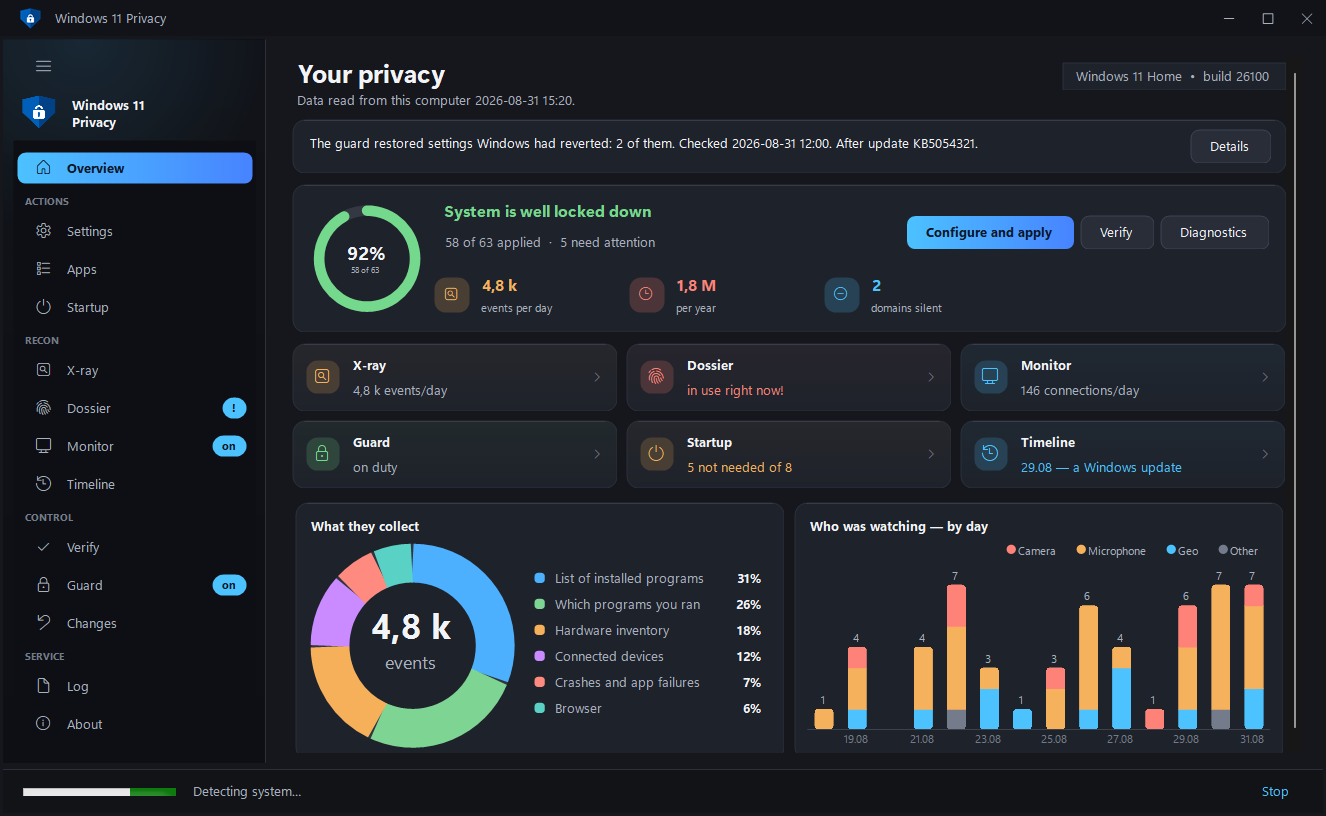
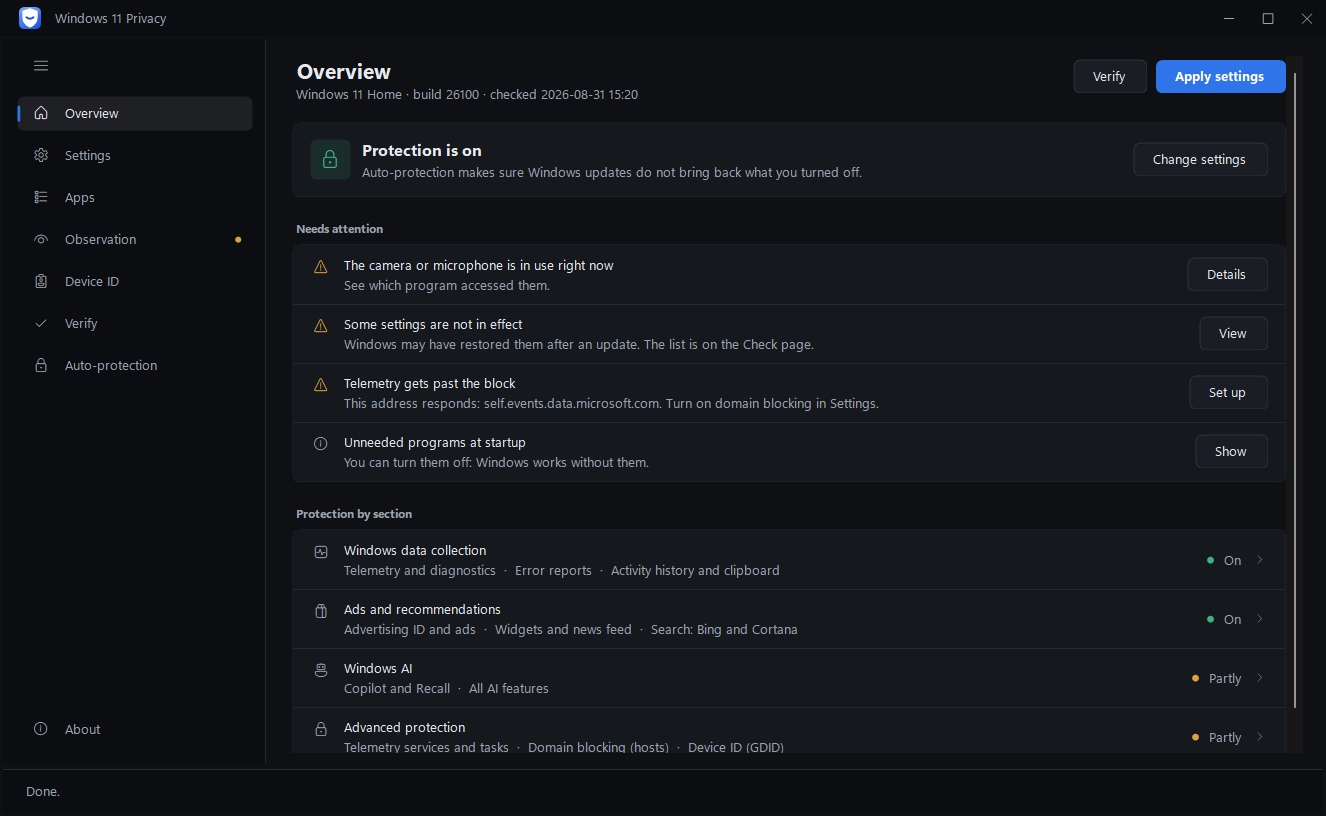
README: new section names and screenshots of the redesigned interface
- Every screenshot in docs/ and docs/en/ retaken from the new interface, plus
  the new Device ID page. Taken with test data only (UITEST + mocks); the new
  WIN11_TEST_README switch puts the test data back and sets the status bar to
  "Done" right before the shot, so the pictures are consistent.
- Feature table and gallery use the new names: Observation (data collection,
  traces on this PC, network, timeline), Verify, Auto-protection; a short line
  under the hero picture lists the eight sections.
- roundtrip.ps1: the services/tasks scenario is skipped, not failed, on a
  Windows without those scheduled tasks (GitHub's server runners); it runs in
  full on Windows 11.

diff --git a/Program.cs b/Program.cs
@@ -64,6 +64,17 @@ namespace Win11Privacy
             Timer t = new Timer(); t.Interval = delayMs;
             t.Tick += delegate {
                 t.Stop();
+                // Снимки для README: настоящий движок за время ожидания успевает
+                // перебить часть тестовых данных своими ответами, а строка
+                // состояния — показать «идёт чтение». Перед снимком всё
+                // возвращается к тестовому состоянию.
+                if (mock && Environment.GetEnvironmentVariable("WIN11_TEST_README") == "1")
+                {
+                    f.InjectMocks();
+                    f.SetBusy(false, L.T("Готово."));
+                    f.Refresh();
+                    Application.DoEvents();
+                }
                 if (shot != null) { try { using (Bitmap bmp = new Bitmap(f.Width, f.Height)) { f.DrawToBitmap(bmp, new Rectangle(0, 0, f.Width, f.Height)); bmp.Save(shot); Console.WriteLine("SHOT " + shot); } } catch (Exception ex) { Console.WriteLine("SHOTERR " + ex.Message); } }
                 // сборке важно не только «окно открылось», но и что на странице что-то есть
                 Console.WriteLine("PAGE " + page + " controls=" + CountControls(f.PageOf(page)));

diff --git a/README.ru.md b/README.ru.md
@@ -19,25 +19,27 @@
 
 <img src="docs/home.png" alt="Обзор">
 
+Восемь разделов: **Обзор**, **Настройки**, **Приложения** (и автозагрузка), **Наблюдение** (сбор данных, следы на компьютере, сеть, хронология), **Номер устройства**, **Проверка** (и журнал изменений), **Автозащита**, **О программе**.
+
 ---
 
 ## Чего нет у других
 
 | | |
 |---|---|
-| **Досье** | Кто и когда включал вашу камеру, микрофон и геолокацию — с длительностью и меткой «сейчас». Плюс цифровой след на диске: рекламный ID, история сетей Wi-Fi и флешек, история буфера обмена — с выборочным стиранием. |
-| **Рентген телеметрии** | Читает настоящие события, которые Windows собрала об этом компьютере, и показывает их сырое содержимое — тот самый JSON, что уходит в Microsoft. |
+| **Следы на компьютере** | Кто и когда включал вашу камеру, микрофон и геолокацию — с длительностью и меткой «сейчас». Плюс цифровой след на диске: рекламный ID, история сетей Wi-Fi и флешек, история буфера обмена — с выборочным стиранием. |
+| **Сбор данных изнутри** | Читает настоящие события, которые Windows собрала об этом компьютере, и показывает их сырое содержимое — тот самый JSON, что уходит в Microsoft. |
 | **Что о вас узнали** | Из этих событий вытаскиваются готовые факты: названия установленных программ, модель и серийные номера железа, подключённые устройства, метки, по которым вас узнают. Не «1420 событий», а что именно из них следует. |
-| **Хронология приватности** | События телеметрии по дням, обновления Windows, правки программы и возвраты стража — на одной оси. Видно, как система отыгрывает настройки назад после очередного обновления. |
+| **Хронология приватности** | События телеметрии по дням, обновления Windows, правки программы и возвраты автозащиты — на одной оси. Видно, как система отыгрывает настройки назад после очередного обновления. |
 | **Проверка на деле** | Читает реальное состояние системы и считает индекс приватности, а не рисует галочки «сделано». |
-| **Страж** | Крупные обновления Windows тихо возвращают часть настроек — страж проверяет систему по расписанию и возвращает сбитое. |
+| **Автозащита** | Крупные обновления Windows тихо возвращают часть настроек — автозащита проверяет систему по расписанию и возвращает сбитое. |
 | **Слежение за датчиками** | Уведомление в тот момент, когда доступ к камере или микрофону впервые получила новая программа. |
-| **Монитор утечек** | Кто и куда реально отправляет данные — по журналу брандмауэра, отдельно разрешённые соединения и отклонённые попытки. |
+| **Наблюдение за сетью** | Кто и куда реально отправляет данные — по журналу брандмауэра, отдельно разрешённые соединения и отклонённые попытки. |
 | **Машина времени** | Снимки состояния настроек и сравнение: что и когда сбилось. |
 | **Отзыв доступа на месте** | Увидели, что программа включала камеру, — и запрещаете ей доступ кнопкой в той же строке. |
 | **Удаление предустановленного** | Список приложений, которые Windows ставит без спроса, с пометкой «можно убрать». Системные компоненты в перечень не попадают. |
-| **Запрет выхода в сеть** | Монитор показывает, кто и куда отправляет данные, — и кнопкой в той же строке программе закрывается выход в интернет. Правило создаётся в брандмауэре Windows и снимается тем же нажатием. |
-| **Автозапуск под контролем** | Что стартует вместе с Windows — с ответом «зачем это здесь»: обновлятор, агент телеметрии, помощник производителя. Гасится обратимо, тем же способом, что и в диспетчере задач, и попадает в общий откат. |
+| **Запрет выхода в сеть** | Вкладка «Сеть» показывает, кто и куда отправляет данные, — и кнопкой в той же строке программе закрывается выход в интернет. Правило создаётся в брандмауэре Windows и снимается тем же нажатием. |
+| **Автозагрузка под контролем** | Что стартует вместе с Windows — с ответом «зачем это здесь»: обновлятор, агент телеметрии, помощник производителя. Гасится обратимо, тем же способом, что и в диспетчере задач, и попадает в общий откат. |
 | **Настройка по пунктам** | Модуль раскрывается в список отдельных настроек: можно применить не всё, а выбранное. |
 | **Блокировка адресов** | Брандмауэр режет сами IP сбора данных — через `hosts` телеметрия уходит в обход. |
 | **Номер устройства, который виден сквозь VPN** | При входе в учётную запись Microsoft выдаёт компьютеру номер (GDID) и узнаёт его по нему при любом IP. У номера своя вкладка с тремя действиями. **Не передавать** отключает службы, которые его сообщают (CDPSvc, CDPUserSvc, DoSvc — последнюю через реестр, потому что Windows не даёт этого даже администратору), и закрывает серверы каталога устройств в `hosts`, включая IPv6; учётная запись Microsoft продолжает работать. **Сменить номер** стирает «личность» устройства вместе с учётными данными — Windows получает новый номер. **Запретить выдачу** ещё и закрывает сервер, который выдаёт номера, — нового не будет; это только для локальной учётной записи, при входе через учётную запись Microsoft программа отказывается. Отключение телеметрии тут не помогает: DiagTrack в этой цепочке не участвует. |
@@ -55,13 +57,13 @@
 | **Фоновые обращения в сеть** | Метаданные устройств, шрифты по требованию, офлайн-карты, модели дисков и речи, Teredo — то, что Windows скачивает и отправляет сама. Пункты взяты из официального списка Microsoft, только безопасные. |
 | **Облачная синхронизация и копия** | Найдено на чистой Windows 11 25H2: система сама выгружает в облако список ваших приложений, сети Wi-Fi, язык, тему, настройки пера и даже ваши ответы на вопросы о конфиденциальности. Отдельный раздел выключает это политикой и задачами. Сюда же — служба InventorySvc (опись программ для Microsoft) и сборщик «Usage and Quality Insights». Задачи, которые Windows не отдаёт администратору, программа отключает от имени системы. |
 | **Скрытые каналы, найденные разбором системы** | Чистую Windows 11 записали два с лишним часа, запуская каждую задачу планировщика по очереди, и разобрали её системные файлы. Нашлось: Защитник раз в час забирает с сервера экспериментов около 130 настроек, включая уведомления Microsoft 365, — это закрывает отдельная политика; телеметрия 1DS (`mobile.events.data.microsoft.com` и региональные адреса) уходит от Защитника, оболочки и Copilot мимо службы DiagTrack — адреса добавлены в hosts; Магазин умеет ставить приложения по команде с сайта, а «Рекомендуемое устранение неполадок» применяет присланные Microsoft «исправления» — и то и другое выключается. |
-| **Журналы Windows в цифровом следе** | Тысячи записей о том, какие программы запускались и к чему обращались, — видны в «Досье» и стираются вместе с остальным следом. |
+| **Журналы Windows в цифровом следе** | Тысячи записей о том, какие программы запускались и к чему обращались, — видны в «Следах на компьютере» и стираются вместе с остальным следом. |
 | **Один вопрос при первом запуске** | Вместо тринадцати разделов сразу — «базовая приватность», «строгая» или «сначала посмотреть, что обо мне собрано». Мастер ничего не применяет: он отмечает набор и показывает, что будет сделано. |
 | **Долгую работу видно и можно остановить** | Кнопка «Прервать» в строке состояния. Чтение обрывается сразу, применение — после предупреждения; всё, что движок успел изменить, уже записано в журнал и возвращается на «Изменениях». Закрытие окна посреди работы тоже спрашивает, а не бросает движок в фоне. |
 | **Журнал отката пишется по ходу дела** | Раньше он сохранялся один раз в самом конце: обрыв прогона оставлял изменения в системе, а вернуть их было нечем. Теперь журнал ложится на диск после каждого модуля и не реже, чем раз в десять правок. Если записать его не удалось (или другой запуск держит его дольше минуты), программа говорит об этом и больше ничего не меняет; перед применением она проверяет это заранее, пока ничего не тронуто. Повреждённый журнал откладывается рядом, а не затирается. |
 | **Движок и данные лежат там, куда не пишут без прав администратора** | Скрипт запускается с полными правами, а журнал отката с полными правами записывается обратно в реестр — значит, ни то ни другое не должно быть доступно обычным программам. У `C:\ProgramData\Win11Privacy` явные права: писать могут только система и администраторы; всё, что туда заранее подложил не администратор, откладывается в сторону, а папка, заведённая кем-то другим, откладывается целиком. Перед каждым запуском файл движка сверяется по SHA-256 с тем, что вшито в exe, — и копия, которую запускает страж, тоже. |
 | **Понятная ошибка вместо системного окна .NET** | Если программа спотыкается, она объясняет что случилось и пишет `crash.log`, который можно приложить к сообщению об ошибке. |
-| **Страж приходит сразу после обновления** | Настройки сбивает обновление Windows, а расписание могло ждать до воскресенья. Теперь у стража есть третий будильник — сама установка обновления: он проверяет систему через пять минут после неё. |
+| **Автозащита приходит сразу после обновления** | Настройки сбивает обновление Windows, а расписание могло ждать до воскресенья. Теперь у автозащиты есть третий будильник — сама установка обновления: она проверяет систему через пять минут после неё. |
 | **Программа одна** | Второй запуск показывает уже открытое окно вместо второго. Два окна с правами администратора применяли бы настройки одновременно и переписывали журнал отката друг друга. |
 | **Видно, сколько проверок пройдено** | Проверка 283 настроек занимает до полуминуты и раньше молчала до самого конца. Теперь движок сообщает ход работы, а окно показывает «15 / 34» и название текущего раздела. |
 | **Журнал выполнения сохраняется в файл** | Кнопка на странице «Журнал»: по этим журналам разбираются случаи «применилось не то», и присылать снимок экрана больше не нужно. |
@@ -82,8 +84,8 @@
 переедет в папку `Win11Privacy-Data` рядом с самой программой: журнал изменений,
 история датчиков, снимки, резервные копии реестра и настройки окна. На чужом
 компьютере после себя не остаётся ничего, кроме самих изменений в системе —
-которые по-прежнему можно откатить. Одно исключение — страж: копия движка,
-которую его задачи запускают с правами администратора, всегда лежит в
+которые по-прежнему можно откатить. Одно исключение — автозащита: копия движка,
+которую её задачи запускают с правами администратора, всегда лежит в
 `C:\ProgramData\Win11Privacy`, потому что рядом с exe её могла бы подменить любая
 ваша программа.
 
@@ -134,26 +136,25 @@ winget install N0deZ3r0.Win11Privacy
 
 ## Как это выглядит
 
-| Настройки — модуль раскрыт в отдельные пункты | Досье — кто включал камеру и микрофон |
+| Настройки — профиль и разделы | Наблюдение → Следы на компьютере — кто включал камеру и микрофон |
 |---|---|
-| <img src="docs/settings.png" alt="Настройки"> | <img src="docs/dossier.png" alt="Досье"> |
+| <img src="docs/settings.png" alt="Настройки"> | <img src="docs/dossier.png" alt="Следы на компьютере"> |
 
-| Приложения — удаление предустановленного | Рентген телеметрии |
+| Наблюдение → Сбор данных — что Windows узнала о компьютере | Номер устройства — тот, что виден сквозь VPN |
 |---|---|
-| <img src="docs/apps.png" alt="Приложения"> | <img src="docs/xray.png" alt="Рентген"> |
+| <img src="docs/xray.png" alt="Сбор данных"> | <img src="docs/gdid.png" alt="Номер устройства"> |
 
-| Проверка — индекс, что не применено и чего нет на этой Windows |
-|---|
-| <img src="docs/audit.png" alt="Проверка"> |
-
-| Автозапуск — что стартует вместе с Windows | Монитор — кто отправляет и кому закрыт выход |
+| Проверка — что действует, а что нет | Проверка → Изменения — что поменяли и как вернуть |
 |---|---|
-| <img src="docs/startup.png" alt="Автозапуск"> | <img src="docs/monitor.png" alt="Монитор"> |
+| <img src="docs/audit.png" alt="Проверка"> | <img src="docs/changes.png" alt="Изменения"> |
 
-| Изменения — что программа поменяла и как вернуть | Хронология — телеметрия по дням и обновления Windows |
+| Приложения — удаление предустановленного | Приложения → Автозагрузка — что стартует вместе с Windows |
 |---|---|
-| <img src="docs/changes.png" alt="Изменения"> | <img src="docs/timeline.png" alt="Хронология"> |
+| <img src="docs/apps.png" alt="Приложения"> | <img src="docs/startup.png" alt="Автозагрузка"> |
 
+| Наблюдение → Сеть — кто отправляет и кому закрыт выход | Наблюдение → Хронология — телеметрия по дням и обновления Windows |
+|---|---|
+| <img src="docs/monitor.png" alt="Сеть"> | <img src="docs/timeline.png" alt="Хронология"> |
 
 ---
 
@@ -180,7 +181,7 @@ winget install N0deZ3r0.Win11Privacy
 | **Win11-Privacy-Engine.ps1** | Движок. Вся работа с системой: реестр, службы, задачи планировщика, hosts, брандмауэр, рентген телеметрии, досье (датчики и цифровой след), страж, снимки состояния, чистка. Вшивается в exe как ресурс `engine.ps1`, а перед запуском кладётся в `C:\ProgramData\Win11Privacy\bin` — папку, куда без прав администратора не пишут. Может работать и сам по себе. |
 | **MainForm.cs** | Окно: сборка каркаса и страниц, определение системы при запуске, состояние окна между запусками, значок и заголовок. |
 | **Navigation.cs** | Разделы и вкладки, боковая панель (сворачивание, анимация), переходы между страницами. |
-| **Page*.cs** | По файлу на страницу: «Обзор», «Настройки», «Приложения» и «Автозагрузка», «Рентген», «Досье», «Сеть», «Хронология», «Номер устройства», «Проверка», «Изменения», «Автозащита», «О программе», «Журнал». |
+| **Page*.cs** | По файлу на страницу: «Обзор», «Настройки», «Приложения» и «Автозагрузка», «Сбор данных», «Следы на компьютере», «Сеть», «Хронология», «Номер устройства», «Проверка», «Изменения», «Автозащита», «О программе», «Журнал». |
 | **ListPage.cs** | Общий каркас страниц-списков (поиск, карточка, кнопки) и помощники для них. |
 | **EngineRunner.cs** | Запуск движка: потоковый вывод, ответы `###JSON###`, занятость и кнопка «Прервать». |
 | **Program.cs** | Точка входа, режим командной строки и тестовые прогоны интерфейса. |
@@ -331,7 +332,9 @@ csc ... /define:UITEST ...
 (нажать «Проверить обновление»), `WIN11_TEST_DUMP=1` (напечатать дерево
 элементов с пометками «ВЫЛЕЗ» и «ОБРЕЗАНО»), `WIN11_TEST_SIDE=папка` (свернуть
 и развернуть боковую панель, напечатать время каждого кадра строками `SIDEFRAME`
-и сохранить кадры в папку; `-` — только время). Ещё есть флаги сборки `BIGFONT` —
+и сохранить кадры в папку; `-` — только время), `WIN11_TEST_README=1` (вместе с
+`WIN11_TEST_MOCK=1`: перед снимком вернуть тестовые данные и строку состояния
+«Готово» — так сняты картинки в `docs/`). Ещё есть флаги сборки `BIGFONT` —
 имитация экрана со 150 % масштабом, и `LIGHTTEST` — светлая тема.
 
 Проверки чистых функций интерфейса собираются отдельным exe:

diff --git a/README.md b/README.md
@@ -19,24 +19,26 @@ about you. Watches so that updates do not quietly turn the tracking back on.**
 
 <img src="docs/en/home.png" alt="Overview">
 
+Eight sections: **Overview**, **Settings**, **Apps** (and startup), **Observation** (data collection, traces on this PC, network, timeline), **Device ID**, **Verify** (and the change log), **Auto-protection**, **About**.
+
 ---
 
 ## What other tools do not have
 
 | | |
 |---|---|
-| **Dossier** | Who turned on your camera, microphone and location, and when — with duration and a "right now" marker. Plus the digital trace left on disk: advertising ID, the history of Wi-Fi networks and USB sticks, clipboard history — each erasable on its own. |
-| **Telemetry X-ray** | Reads the actual events Windows has collected about this computer and shows their raw contents — the very JSON that goes to Microsoft. |
+| **Traces on this PC** | Who turned on your camera, microphone and location, and when — with duration and a "right now" marker. Plus the digital trace left on disk: advertising ID, the history of Wi-Fi networks and USB sticks, clipboard history — each erasable on its own. |
+| **Data collection, from the inside** | Reads the actual events Windows has collected about this computer and shows their raw contents — the very JSON that goes to Microsoft. |
 | **What they learned about you** | Those events are turned into plain facts: names of installed programs, hardware model and serial numbers, connected devices, the markers you are recognised by. Not "1,420 events", but what follows from them. |
-| **Privacy timeline** | Telemetry events by day, Windows updates, the program's own changes and the guard's reversions — on one axis. You can see the system rolling settings back after an update. |
+| **Privacy timeline** | Telemetry events by day, Windows updates, the program's own changes and auto-protection's reversions — on one axis. You can see the system rolling settings back after an update. |
 | **Verification in practice** | Reads the real state of the system and computes a privacy index, instead of drawing "done" ticks. |
-| **The guard** | Major Windows updates quietly restore some settings — the guard checks the system on a schedule and puts back what was knocked out. |
+| **Auto-protection** | Major Windows updates quietly restore some settings — auto-protection checks the system on a schedule and puts back what was knocked out. |
 | **Sensor watch** | A notification at the moment a new program gains access to the camera or microphone for the first time. |
-| **Leak monitor** | Who is actually sending data and where, from the firewall log — allowed connections and rejected attempts shown separately. |
+| **Network watch** | Who is actually sending data and where, from the firewall log — allowed connections and rejected attempts shown separately. |
 | **Time machine** | Snapshots of the settings state, and a comparison: what drifted, and when. |
 | **Revoke access in place** | You saw a program using the camera — you deny it access with a button on the same row. |
 | **Removing preinstalled apps** | The list of apps Windows installs without asking, marked with what is safe to remove. System components do not appear in it. |
-| **Block internet access** | The monitor shows who is sending data where — and a button on the same row cuts that program off from the network. The rule is created in Windows Firewall and removed by the same click. |
+| **Block internet access** | The Network tab shows who is sending data where — and a button on the same row cuts that program off from the network. The rule is created in Windows Firewall and removed by the same click. |
 | **Startup under control** | What starts with Windows, with an answer to "why is this here": an updater, a telemetry agent, a vendor's helper. Disabled reversibly, the same way Task Manager does it, and included in the general rollback. |
 | **Setting-by-setting control** | A module expands into a list of individual settings: you can apply some of them rather than all. |
 | **Address blocking** | The firewall cuts off the data-collection IPs themselves — through `hosts` alone telemetry simply goes around. |
@@ -55,13 +57,13 @@ about you. Watches so that updates do not quietly turn the tracking back on.**
 | **Background network calls** | Device metadata, on-demand fonts, offline maps, disk-health and speech models, Teredo — what Windows downloads and sends by itself. Taken from Microsoft's own list, safe items only. |
 | **Cloud sync and backup** | Found on a clean Windows 11 25H2: the system uploads your app list, Wi-Fi networks, language, theme, pen settings and even your answers to the privacy questions to the cloud on its own. A separate section turns this off with a policy and scheduled tasks. Also new: the InventorySvc service (an inventory of your programs for Microsoft) and the "Usage and Quality Insights" collector. Tasks that Windows keeps from administrators are turned off as SYSTEM. |
 | **Hidden channels found by taking the system apart** | A clean Windows 11 was recorded for over two hours while every scheduled task was started one by one, and its system files were searched. Findings: Defender pulls about 130 settings from an experiments server every hour, Microsoft 365 notifications among them, which a separate policy now stops; 1DS telemetry (`mobile.events.data.microsoft.com` and regional hosts) leaves Defender, the shell and Copilot bypassing the DiagTrack service, and these hosts are now blocked; the Store can install apps on command from the website, and "Recommended troubleshooting" applies "mitigations" sent by Microsoft, and both can now be turned off. |
-| **Windows logs in the digital trace** | Thousands of entries about which programs ran and what they accessed — shown in the Dossier and wiped along with the rest of the trace. |
+| **Windows logs in the digital trace** | Thousands of entries about which programs ran and what they accessed — shown in Traces on this PC and wiped along with the rest of the trace. |
 | **One question on first run** | Instead of thirteen sections at once — "basic privacy", "strict", or "first show me what has been collected about me". The wizard applies nothing: it ticks a set and shows what will be done. |
 | **Long work is visible and can be stopped** | A "Stop" button in the status bar. Reading stops at once, applying stops after a warning — everything the engine already changed is in the journal and can be reverted on the Changes page. Closing the window mid-run asks as well, instead of leaving the engine running unseen. |
 | **The undo journal is written as it goes** | It used to be saved once, at the very end: an interrupted run left the changes in the system with nothing to revert them with. Now it hits the disk after every module and at least once every ten edits. If it cannot be written (or another copy holds it for more than a minute), the program says so and stops changing anything; before applying it checks this up front, while nothing has been touched. A damaged journal is set aside, not overwritten. |
 | **The engine and its data live where nothing writes without administrator rights** | The script runs with full rights, and the undo journal is written back into the registry with full rights, so both must be out of reach of ordinary programs. `C:\ProgramData\Win11Privacy` gets explicit permissions (only SYSTEM and administrators can write); anything a non-administrator placed there beforehand is moved aside, and a folder created by someone else is set aside as a whole. Before every launch the engine file is checked against the SHA-256 of what is embedded in the exe, and the copy the guard runs is checked the same way. |
 | **A clear error instead of the .NET dialog** | When the program trips over something, it explains what happened and writes `crash.log` you can attach to a bug report. |
-| **The guard comes right after an update** | A Windows update is what knocks the settings out, and a schedule could wait until Sunday. The guard now has a third alarm — the update installation itself: it checks the system five minutes later. |
+| **Auto-protection comes right after an update** | A Windows update is what knocks the settings out, and a schedule could wait until Sunday. Auto-protection now has a third alarm — the update installation itself: it checks the system five minutes later. |
 | **One copy of the program** | A second launch brings up the window that is already open. Two windows with administrator rights would apply settings at the same time and overwrite each other's undo journal. |
 | **You can see how far the check has got** | Verifying 283 settings takes up to half a minute and used to stay silent until the very end. Now the engine reports its progress and the window shows "15 / 34" and the name of the current section. |
 | **The run log can be saved to a file** | A button on the Log page: these logs are what "it applied the wrong thing" cases are settled by, and a screenshot is no longer needed. |
@@ -84,7 +86,7 @@ window size and language in `%LOCALAPPDATA%`. Put a **`portable.txt`** file next
 into a `Win11Privacy-Data` folder beside the program itself: the change log, sensor
 history, snapshots, registry backups and window settings. On someone else's
 computer nothing is left behind except the system changes themselves — which can
-still be rolled back. The one exception is the guard: the copy of the engine its
+still be rolled back. The one exception is auto-protection: the copy of the engine its
 scheduled tasks run with administrator rights is always kept in
 `C:\ProgramData\Win11Privacy`, because next to the exe any of your programs could
 swap it.
@@ -139,25 +141,25 @@ into Windows, and the engine is embedded inside the exe.
 
 ## What it looks like
 
-| Settings — a module expanded into individual items | Dossier — who turned on the camera and microphone |
+| Settings — profile and sections | Observation → Traces on this PC — who turned on the camera and microphone |
 |---|---|
-| <img src="docs/en/settings.png" alt="Settings"> | <img src="docs/en/dossier.png" alt="Dossier"> |
+| <img src="docs/en/settings.png" alt="Settings"> | <img src="docs/en/dossier.png" alt="Traces on this PC"> |
 
-| Apps — removing preinstalled software | Telemetry X-ray |
+| Observation → Data collection — what Windows learned about the PC | Device ID — the one that shows through a VPN |
 |---|---|
-| <img src="docs/en/apps.png" alt="Apps"> | <img src="docs/en/xray.png" alt="X-ray"> |
+| <img src="docs/en/xray.png" alt="Data collection"> | <img src="docs/en/gdid.png" alt="Device ID"> |
 
-| Audit — the index, what was not applied, and what does not exist on this Windows |
-|---|
-| <img src="docs/en/audit.png" alt="Audit"> |
-
-| Startup — what launches with Windows | Monitor — who is sending, and who is cut off |
+| Verify — what is in effect and what is not | Verify → Changes — what was altered and how to undo it |
 |---|---|
-| <img src="docs/en/startup.png" alt="Startup"> | <img src="docs/en/monitor.png" alt="Monitor"> |
+| <img src="docs/en/audit.png" alt="Verify"> | <img src="docs/en/changes.png" alt="Changes"> |
 
-| Changes — what the program altered and how to undo it | Timeline — telemetry by day and Windows updates |
+| Apps — removing preinstalled software | Apps → Startup — what launches with Windows |
 |---|---|
-| <img src="docs/en/changes.png" alt="Changes"> | <img src="docs/en/timeline.png" alt="Timeline"> |
+| <img src="docs/en/apps.png" alt="Apps"> | <img src="docs/en/startup.png" alt="Startup"> |
+
+| Observation → Network — who is sending, and who is cut off | Observation → Timeline — telemetry by day and Windows updates |
+|---|---|
+| <img src="docs/en/monitor.png" alt="Network"> | <img src="docs/en/timeline.png" alt="Timeline"> |
 
 ---
 
@@ -185,7 +187,7 @@ By hand, if you prefer:
 | **Win11-Privacy-Engine.ps1** | The engine. All the work with the system: registry, services, scheduled tasks, hosts, firewall, telemetry X-ray, dossier (sensors and digital trace), the guard, state snapshots, cleanup. Embedded in the exe as the `engine.ps1` resource; before a launch it is placed in `C:\ProgramData\Win11Privacy\bin` — a folder nothing writes to without administrator rights. Can also run on its own. |
 | **MainForm.cs** | The window: building the frame and pages, system detection at start, window state between launches, icon and title bar. |
 | **Navigation.cs** | Sections and tabs, the sidebar (collapse, its animation), moving between pages. |
-| **Page*.cs** | One file per page: Overview, Settings, Apps and Startup, X-ray, Dossier, Network, Timeline, Device ID, Verify, Changes, Auto-protection, About, Log. |
+| **Page*.cs** | One file per page: Overview, Settings, Apps and Startup, Data collection, Traces on this PC, Network, Timeline, Device ID, Verify, Changes, Auto-protection, About, Log. |
 | **ListPage.cs** | The shared frame of list pages (search, card, buttons) and helpers for them. |
 | **EngineRunner.cs** | Launching the engine: streamed output, `###JSON###` replies, the busy state and the Stop button. |
 | **Program.cs** | The entry point, command-line mode and the interface test runs. |
@@ -335,7 +337,9 @@ interface), `WIN11_TEST_SHOT=path.png` (capture the window and exit),
 (press "Check for update"), `WIN11_TEST_DUMP=1` (print the control tree with
 "ВЫЛЕЗ" and "ОБРЕЗАНО" markers), `WIN11_TEST_SIDE=folder` (collapse and expand
 the sidebar, print the time of each frame as `SIDEFRAME` and save the frames to
-the folder; `-` means timing only). There are also the build flags `BIGFONT`,
+the folder; `-` means timing only), `WIN11_TEST_README=1` (with `WIN11_TEST_MOCK=1`:
+put the test data back and set the status bar to "Done" right before the
+screenshot — this is how the pictures in `docs/` are taken). There are also the build flags `BIGFONT`,
 which simulates a display at 150% scaling, and `LIGHTTEST` for the light theme.
 
 The checks for the interface's pure functions build as a separate exe:
